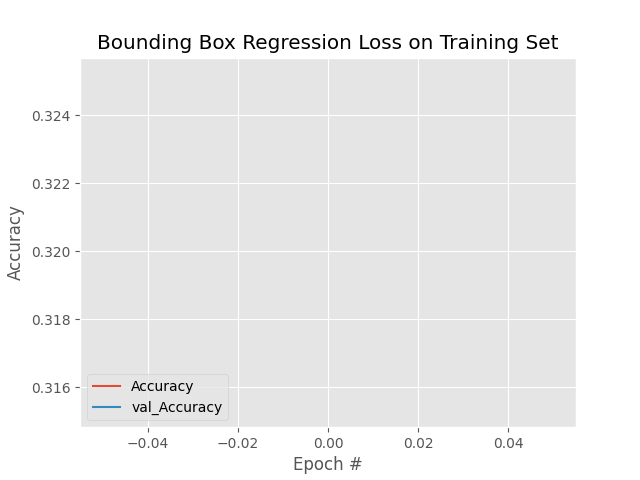
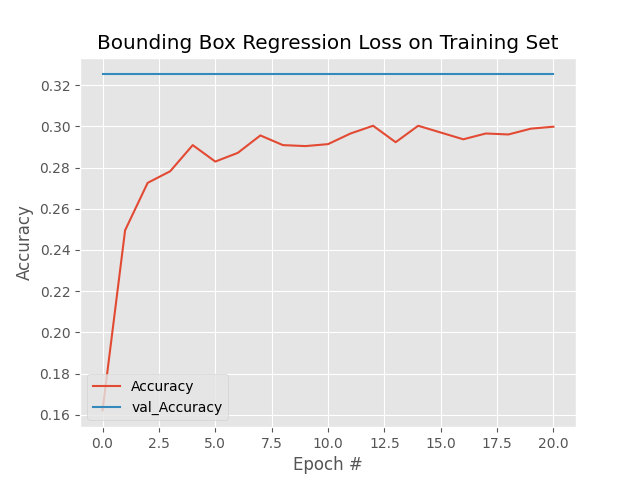
update the model

diff --git a/main.py b/main.py
@@ -52,9 +52,9 @@ LB_PATH = os.path.sep.join([BASE_OUTPUT, "lb.pickle"])
 
 # initialize our initial learning rate, number of epochs to train
 # for, and the batch size
-INIT_LR = 1e-4
-NUM_EPOCHS = 1
-BATCH_SIZE = 10
+INIT_LR = 1e-6
+NUM_EPOCHS = 50
+BATCH_SIZE = 16
 
 
 # define the names of the classes
@@ -366,7 +366,8 @@ headModel = base_model.output
 headModel = Flatten()(headModel)
 headModel=Dense(256, activation='relu', name='fc1',kernel_initializer=keras.initializers.glorot_uniform(seed=0))(headModel)
 headModel=Dense(128, activation='relu', name='fc2',kernel_initializer=keras.initializers.glorot_uniform(seed=0))(headModel)
-headModel = Dense( 1,activation='sigmoid', name='fc3',kernel_initializer=keras.initializers.glorot_uniform(seed=0))(headModel)
+headModel =Dropout(0.4)(headModel)
+headModel = Dense(1,activation='sigmoid', name='fc3',kernel_initializer=keras.initializers.glorot_uniform(seed=0))(headModel)
 
 model = Model(inputs=base_model.input, outputs=headModel)
 print(model.summary())
@@ -375,7 +376,7 @@ base_model.load_weights(Train_weight_PATH)
 for layer in base_model.layers:
 	layer.trainable = False
 # compile the model
-opt = SGD(lr=1e-4, momentum=0.9)
+opt = SGD(lr=1e-6, momentum=0.9)
 model.compile(optimizer=opt, metrics=['accuracy'], loss=['mse'])
 #for layer in model.layers:
     # print(layer, layer.trainable)
@@ -392,7 +393,7 @@ callback = keras.callbacks.ModelCheckpoint(MODEL_PATH, monitor='val_accuracy', m
 
 # train the model
 print("[INFO] training model...")
-H = model.fit(train_data, train_boxes, batch_size=10, epochs=1, verbose=1, validation_data=(validation_data, validation_boxes), callbacks=[callback,early_stopping])
+H = model.fit(train_data, train_boxes, batch_size=16, epochs=50, verbose=1, validation_data=(validation_data, validation_boxes), callbacks=[callback,early_stopping])
 stopped_epoch = (early_stopping.stopped_epoch+1)
 print(stopped_epoch)
 # serialize the model to disk
